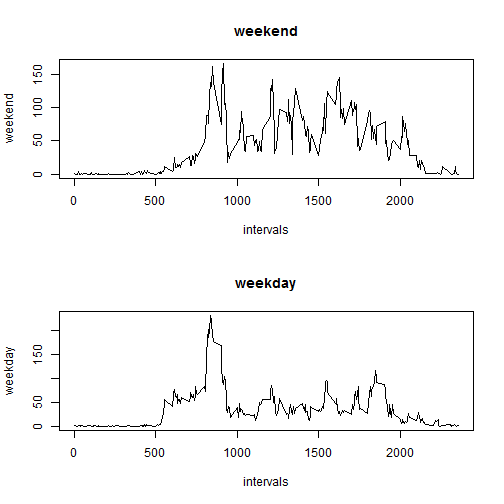
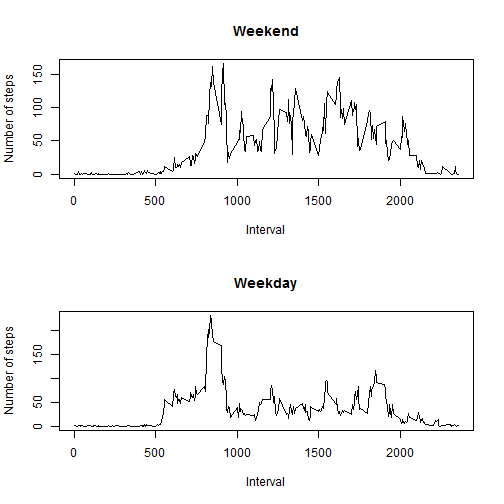
Version for peer assessment

diff --git a/PA1_template.html b/PA1_template.html
@@ -233,12 +233,12 @@ for (i in 1:length(dates)) {
 
 <p>c. Create time series of average and median numbers of steps across each five-minute interval</p>
 
-<pre><code class="r">intervals &lt;- dimnames(table(data[,&quot;interval&quot;]))[[1]]
+<pre><code class="r">Interval &lt;- dimnames(table(data[,&quot;interval&quot;]))[[1]]
 averages &lt;- NULL
-for (i in 1:length(intervals)) {
-  averages &lt;- c(averages, mean(data[data[,&quot;interval&quot;]==intervals[i],&quot;steps&quot;], na.rm = TRUE))
+for (i in 1:length(Interval)) {
+  averages &lt;- c(averages, mean(data[data[,&quot;interval&quot;]==Interval[i],&quot;steps&quot;], na.rm = TRUE))
 }
-avesteps &lt;- as.ts(averages)
+Avesteps &lt;- as.ts(averages)
 </code></pre>
 
 <h2>What is mean total number of steps taken per day?</h2>
@@ -276,16 +276,16 @@ avesteps &lt;- as.ts(averages)
 <li>Make a time series plot (i.e. type = &ldquo;l&rdquo;) of the 5-minute interval (x-axis) and the average number of steps taken, averaged across all days (y-axis)</li>
 </ol>
 
-<pre><code class="r">plot(intervals,avesteps,type = &quot;l&quot;)
+<pre><code class="r">plot(Interval,Avesteps,type = &quot;l&quot;)
 </code></pre>
 
[2 lines of base64/hex data omitted]
 
 <ol>
 <li>Which 5-minute interval, on average across all the days in the dataset, contains the maximum number of steps?</li>
 </ol>
 
-<pre><code class="r">intervals[which(avesteps==max(avesteps))]
+<pre><code class="r">Interval[which(Avesteps==max(Avesteps))]
 </code></pre>
 
 <pre><code>## [1] &quot;835&quot;
@@ -322,7 +322,7 @@ avesteps &lt;- as.ts(averages)
 
 <pre><code class="r">newdata &lt;- data
 for (i in 1:length(stepindx)){
-  newdata[stepindx[i],&quot;steps&quot;] &lt;- avesteps[which(newdata[stepindx[i],&quot;interval&quot;]==intervals)]  
+  newdata[stepindx[i],&quot;steps&quot;] &lt;- Avesteps[which(newdata[stepindx[i],&quot;interval&quot;]==Interval)]  
 }
 </code></pre>
 
@@ -395,9 +395,9 @@ wkenddta &lt;- newdata[which(dayfact==&quot;weekend&quot;),]
 # intervals &lt;- dimnames(table(data[,&quot;interval&quot;]))[[1]]
 wkdayave &lt;- NULL
 wkendave &lt;- NULL
-for (i in 1:length(intervals)) {
-  wkdayave &lt;- c(wkdayave, mean(wkdaydta[wkdaydta[,&quot;interval&quot;]==intervals[i],&quot;steps&quot;]))
-  wkendave &lt;- c(wkendave, mean(wkenddta[wkenddta[,&quot;interval&quot;]==intervals[i],&quot;steps&quot;]))
+for (i in 1:length(Interval)) {
+  wkdayave &lt;- c(wkdayave, mean(wkdaydta[wkdaydta[,&quot;interval&quot;]==Interval[i],&quot;steps&quot;]))
+  wkendave &lt;- c(wkendave, mean(wkenddta[wkenddta[,&quot;interval&quot;]==Interval[i],&quot;steps&quot;]))
 }
 weekday &lt;- as.ts(wkdayave)
 weekend &lt;- as.ts(wkendave)
@@ -407,16 +407,16 @@ weekend &lt;- as.ts(wkendave)
 
 <p>X-label: Interval
 y-label: Number of steps
-top: weekend
-bottom: weekday</p>
+top: Weekend
+bottom: Weekday</p>
 
 <pre><code class="r"># 2 figures arranged in 2 rows
 par(mfrow=c(2,1))
-plot(intervals,weekend,main=&quot;weekend&quot;,type = &quot;l&quot;)
-plot(intervals,weekday,main=&quot;weekday&quot;,type = &quot;l&quot;)
+plot(Interval,weekend,main=&quot;Weekend&quot;,ylab=&quot;Number of steps&quot;,type = &quot;l&quot;)
+plot(Interval,weekday,main=&quot;Weekday&quot;,ylab=&quot;Number of steps&quot;,type = &quot;l&quot;)
 </code></pre>
 
[2 lines of base64/hex data omitted]
 
 </body>
 

diff --git a/PA1_template.md b/PA1_template.md
@@ -34,12 +34,12 @@ c. Create time series of average and median numbers of steps across each five-mi
 
 
 ```r
-intervals <- dimnames(table(data[,"interval"]))[[1]]
+Interval <- dimnames(table(data[,"interval"]))[[1]]
 averages <- NULL
-for (i in 1:length(intervals)) {
-  averages <- c(averages, mean(data[data[,"interval"]==intervals[i],"steps"], na.rm = TRUE))
+for (i in 1:length(Interval)) {
+  averages <- c(averages, mean(data[data[,"interval"]==Interval[i],"steps"], na.rm = TRUE))
 }
-avesteps <- as.ts(averages)
+Avesteps <- as.ts(averages)
 ```
 
 ## What is mean total number of steps taken per day?
@@ -80,7 +80,7 @@ median(daysteps,na.rm = TRUE)
 
 
 ```r
-plot(intervals,avesteps,type = "l")
+plot(Interval,Avesteps,type = "l")
 ```
 
 ![plot of chunk unnamed-chunk-7](figure/unnamed-chunk-7-1.png) 
@@ -89,7 +89,7 @@ plot(intervals,avesteps,type = "l")
 
 
 ```r
-intervals[which(avesteps==max(avesteps))]
+Interval[which(Avesteps==max(Avesteps))]
 ```
 
 ```
@@ -128,7 +128,7 @@ b. For each row of the new dataset with a missing "steps" value, replace NA with
 ```r
 newdata <- data
 for (i in 1:length(stepindx)){
-  newdata[stepindx[i],"steps"] <- avesteps[which(newdata[stepindx[i],"interval"]==intervals)]  
+  newdata[stepindx[i],"steps"] <- Avesteps[which(newdata[stepindx[i],"interval"]==Interval)]  
 }
 ```
 
@@ -210,9 +210,9 @@ wkenddta <- newdata[which(dayfact=="weekend"),]
 # intervals <- dimnames(table(data[,"interval"]))[[1]]
 wkdayave <- NULL
 wkendave <- NULL
-for (i in 1:length(intervals)) {
-  wkdayave <- c(wkdayave, mean(wkdaydta[wkdaydta[,"interval"]==intervals[i],"steps"]))
-  wkendave <- c(wkendave, mean(wkenddta[wkenddta[,"interval"]==intervals[i],"steps"]))
+for (i in 1:length(Interval)) {
+  wkdayave <- c(wkdayave, mean(wkdaydta[wkdaydta[,"interval"]==Interval[i],"steps"]))
+  wkendave <- c(wkendave, mean(wkenddta[wkenddta[,"interval"]==Interval[i],"steps"]))
 }
 weekday <- as.ts(wkdayave)
 weekend <- as.ts(wkendave)
@@ -222,15 +222,15 @@ b. Create panel plot comparing the weekend and weekday averages
 
 X-label: Interval
 y-label: Number of steps
-top: weekend
-bottom: weekday
+top: Weekend
+bottom: Weekday
 
 
 ```r
 # 2 figures arranged in 2 rows
 par(mfrow=c(2,1))
-plot(intervals,weekend,main="weekend",type = "l")
-plot(intervals,weekday,main="weekday",type = "l")
+plot(Interval,weekend,main="Weekend",ylab="Number of steps",type = "l")
+plot(Interval,weekday,main="Weekday",ylab="Number of steps",type = "l")
 ```
 
 ![plot of chunk unnamed-chunk-17](figure/unnamed-chunk-17-1.png) 
